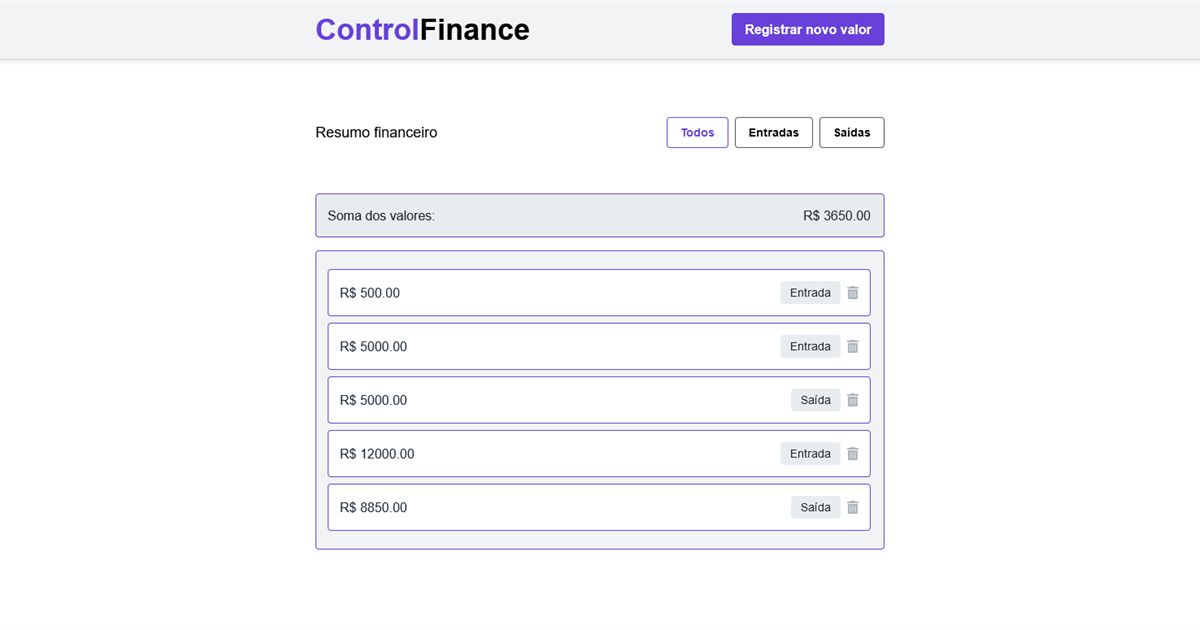
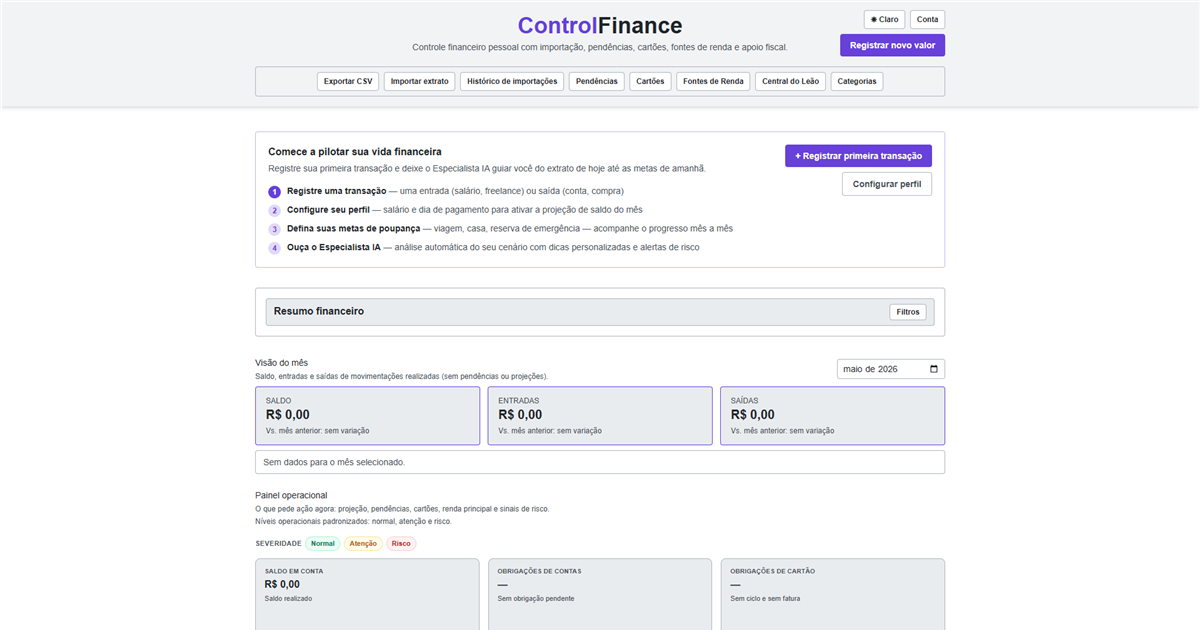
fix: normalize control-finance screenshot to 1200x630 and update description
App evolved significantly — description now reflects CSV import/export,
card tracking, balance projection and AI-powered financial analysis.

Changed region(s): [[0.2158, 0.0, 0.8017, 0.9651]]

diff --git a/README.md b/README.md
@@ -149,8 +149,8 @@ const contactMe = {
       <a href="https://control-finance-react-tail-wind.vercel.app/">
         <img src="assets/control-finance.png" alt="Control Finance preview" width="100%" />
       </a>
-      <p><strong>Description:</strong> React frontend for transaction tracking with predictable local state, deterministic filtering by type, and real-time balance calculation.</p>
-      <p><strong>Stack:</strong> React, Tailwind CSS, JavaScript</p>
+      <p><strong>Description:</strong> Personal finance platform with transaction management, CSV import/export, credit card and bill tracking, income sources, balance projection, and AI-powered financial analysis.</p>
+      <p><strong>Stack:</strong> React, TypeScript, Tailwind CSS</p>
       <p>🔗 <a href="https://github.com/JrValerio/Control-Finance-React-TailWind">Repo</a> | 🌐 <a href="https://control-finance-react-tail-wind.vercel.app/">Demo</a></p>
     </td>
   </tr>
